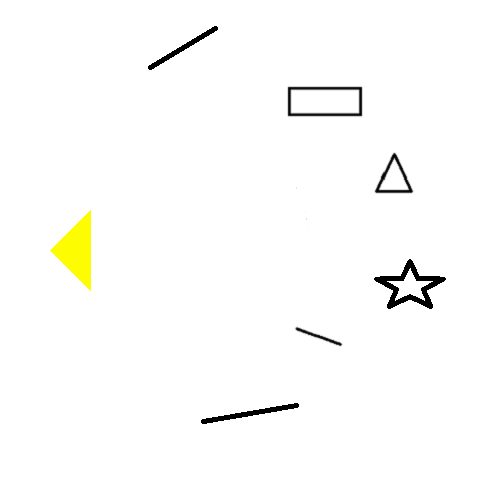
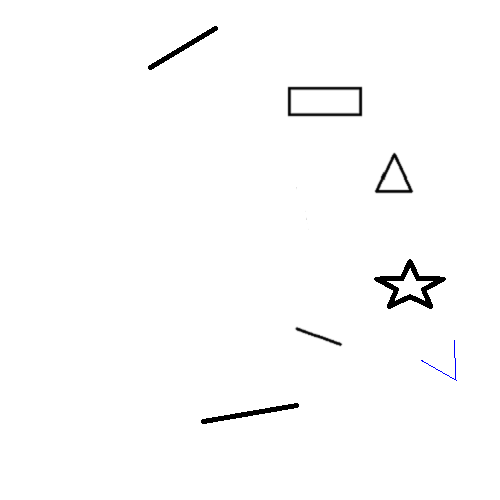
rotacion y mover

Changed region(s): [[0.09, 0.42, 0.18, 0.57]]

diff --git a/Proyecto2/radar.py b/Proyecto2/radar.py
@@ -6,6 +6,12 @@ import threading
 import sys
 from PIL import Image, ImageChops, ImageEnhance, ImageOps
 
+#Numero PI para el calculo de angulos
+PI=3.141592653
+
+lim1=1.8
+lim2=PI/4
+
 def Desplazarse(X, Y, Angulo, listaTiempos, Tiempo, Rebotes):
 	'''
 	Objetivo: Recrea el desplazamiento del rayo dependiendo del angulo que recibe
@@ -15,14 +21,16 @@ def Desplazarse(X, Y, Angulo, listaTiempos, Tiempo, Rebotes):
 		if X>=0 and Y>=0:
 			if Rebotes==0:
 				return listaTiempos
-			elif pixelesCono[X, Y]!=(255,255,255) and pixelesCono[X, Y]!=(254,252,0):
+			elif pixelesCono[X, Y]!=(255,255,255) and pixelesCono[X, Y]!=(0, 0, 255):
 				listaTiempos.append(Tiempo)
 				listaTiempos=CrearRebotes(X, Y, Angulo, listaTiempos, Tiempo, Rebotes-1)
 			else:
-				#if Rebotes<3:
-				#	pixelesResultado[X,Y]=255
+				
+				#if Rebotes==3:
+					#pixelesResultado[X,Y]=100
 				#else:
-				#	pixelesResultado[X,Y]=100
+				#pixelesResultado[X,Y]=100
+				
 				X+=1*math.sin(Angulo)
 				Y+=1*math.cos(Angulo)
 				return Desplazarse(X, Y, Angulo, listaTiempos, Tiempo+1, Rebotes)
@@ -34,14 +42,16 @@ def Desplazarse(X, Y, Angulo, listaTiempos, Tiempo, Rebotes):
 		return listaTiempos
 
 def CrearRebotes(X, Y, Angulo, listaTiempos, Tiempo, Rebotes):
-	Angulo=random.uniform(0, 2*PI)
+	Angulo=random.uniform(lim1-2.5, lim2-(7*PI/4))
 	X+=1*math.sin(Angulo)
 	Y+=1*math.cos(Angulo)
 	listaTiempos=Desplazarse(X,Y,Angulo,listaTiempos,Tiempo+1,Rebotes)
 	return listaTiempos
 
 def FabricAngulos(X, Y):
-	Angulo=random.uniform(2.3, PI/4)
+	global lim2
+	global lim1
+	Angulo=random.uniform(lim1, lim2)
 	Hilo=threading.Thread(target=LanzarRayo(X, Y, Angulo))
 	Hilo.start()
 
@@ -93,30 +103,41 @@ def Borrar():
 			pixelesResultado[i,j]=(0)
 	imagenResultado.save("nueva_imagen.png")
 
-def creaCono(Coords, n, sonar):
+
+
+def rotarCono(x,y,dire):
+	global lim1
+	global lim2
+	lista=[]
+	if dire==1:
+		lim1=lim1+0.4
+		lim2=lim2+0.4
+	elif dire!=0:
+		lim1=lim1-0.4
+		lim2=lim2-0.4
+	xaux=x
+	yaux=y
+
 	imagenLocal=Image.open('imagen.png')
 	imagenLocal=imagenLocal.convert("RGB")
 	pixelesLocal=imagenLocal.load()
+	pixelesLocal[x,y]=(0, 0, 255)
 
-	sonar.append((Coords[0], Coords[1]))
-	var=1
-	fila=Coords[1]-1
-	columna=Coords[0]+1
-	for j in range(n):
-		var+=2
-		MemoriaFila=fila
-		MemoriaColumna=columna
-		for i in range(var):
-			sonar.append((columna, fila))
-			fila+=1
-		fila=MemoriaFila-1
-		columna=MemoriaColumna+1
+	for i in range(40):
+		xaux+=1*math.sin(lim1)
+		yaux+=1*math.cos(lim1)
+		pixelesLocal[xaux,yaux]=(0, 0, 255)
 
-	for i in sonar:
-		pixelesLocal[i[0],i[1]]=(254,252,0)
+	xaux=x
+	yaux=y
+	for i in range(40):
+		xaux+=1*math.sin(lim2)
+		yaux+=1*math.cos(lim2)
+		pixelesLocal[xaux,yaux]=(0, 0, 255)
+
+
 
 	imagenLocal.save("imagenCono.png")
-
 
 #Inicio de la pantalla de pygame
 pygame.init()
@@ -129,8 +150,6 @@ ColorGris=(155,155,155)
 VERDE = (0, 255, 0)
 ROJO = (255, 0, 0)
 
-#Numero PI para el calculo de angulos
-PI=3.141592653
 
 #Dimensiones de la pantalla grande
 Dimensiones=[1000, 500]
@@ -157,17 +176,32 @@ imagenResultado=imagenResultado.convert("L")
 pixelesCono=imagenCono.load()
 pixelesResultado=imagenResultado.load()
 
+posicionX=50
+posicionY=250
+
 Screen.fill(ColorBlanco)
-creaCono((50, 250), 40, [])
 Borrar()
+rotarCono(50,250,0)
 FabricAngulos(50,250)
 while not Close:
 	for evento in pygame.event.get():  # El usuario hizo algo
 		if evento.type == pygame.QUIT: # Si el usuario hace click sobre cerrar
 			Close=True                 # Marca que ya lo hemos hecho, de forma que abandonamos el bucle
+		if evento.type == pygame.KEYUP:
+			if evento.key == pygame.K_LEFT:
+				rotarCono(posicionX,posicionY,1) 
+			if evento.key == pygame.K_RIGHT:
+				rotarCono(posicionX,posicionY,2)
+		if evento.type == pygame.MOUSEBUTTONDOWN:
+			x,y=evento.pos
+			if(x>500):
+				posicionX=x-500
+				posicionY=y
+				rotarCono(posicionX,posicionY,0)
 
 
-	FabricAngulos(50,250)
+
+	FabricAngulos(posicionX,posicionY)
 	
 	imagenResultado.save("nueva_imagen.png")
 	imagenNueva = pygame.image.load("nueva_imagen.png")
